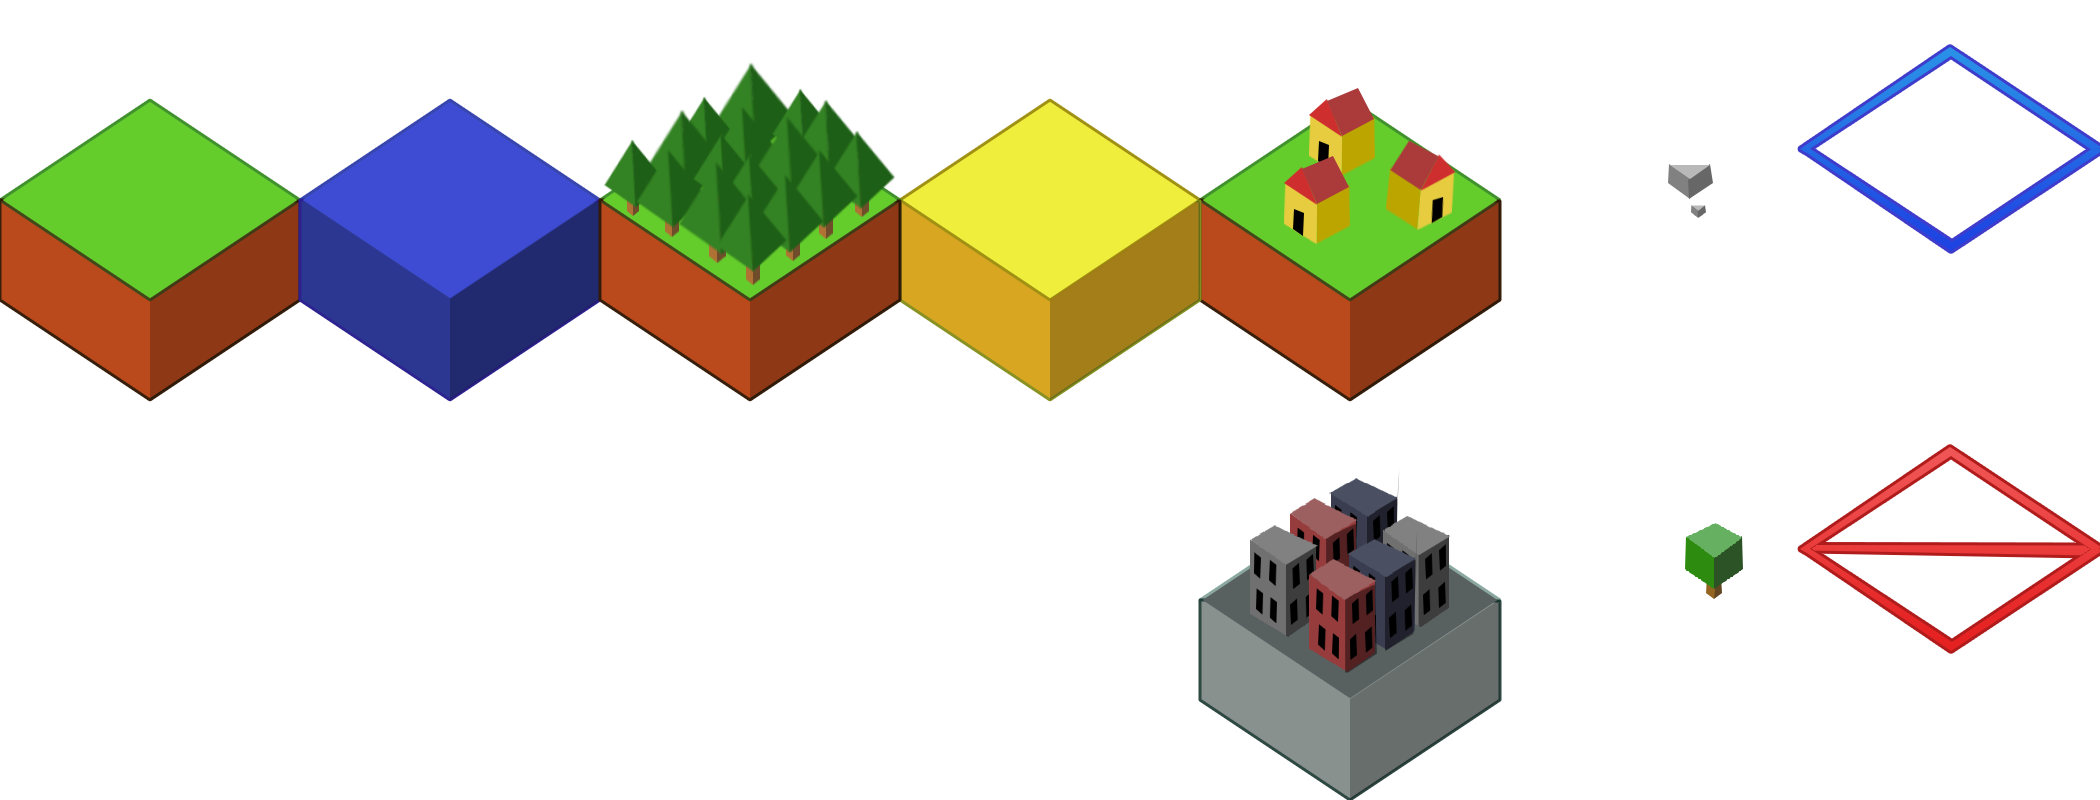
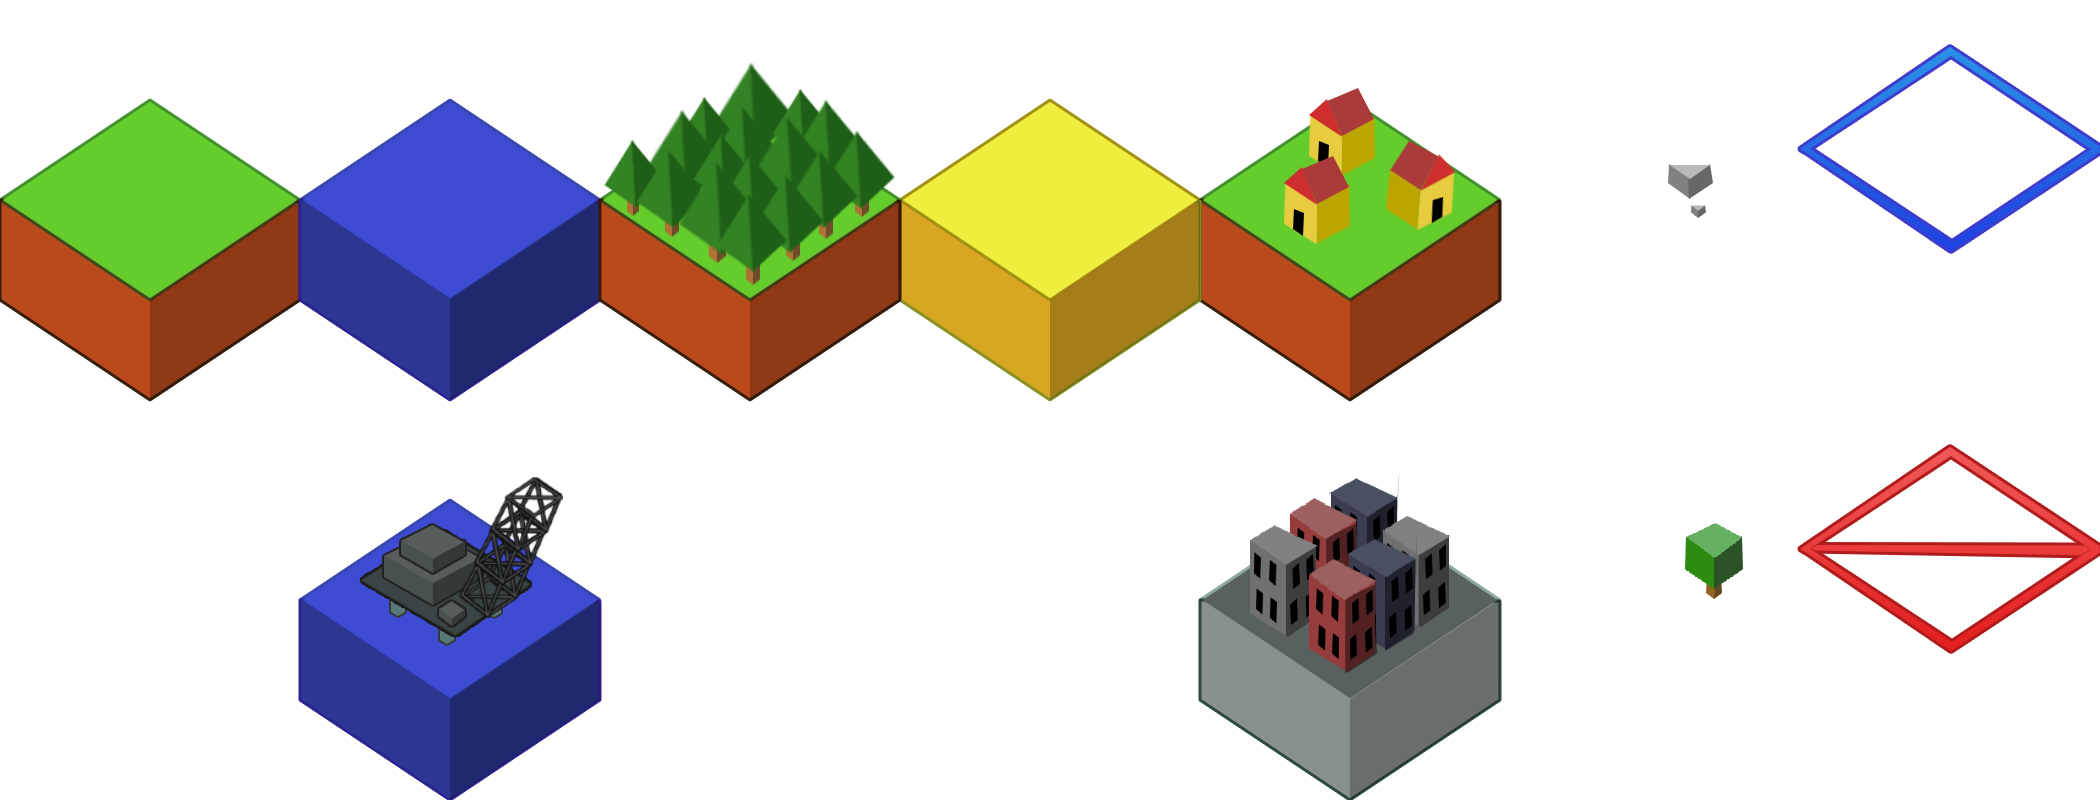
Mad cities more powerful xD

Changed region(s): [[0.1238, 0.5938, 0.3095, 1.0]]

diff --git a/_games/voxel-biome/tmp.js b/_games/voxel-biome/tmp.js
@@ -129,6 +129,12 @@ function Voxel(x, y, width, height, type){
 
     this.id = currentID;
 
+    this.internalTimer = 100;
+
+    this.turnToCityTerritory = false;
+
+    this.cityProperty = false;
+
     if(this.id/mapSideLength !== 0) {
         if(this.id/mapSideLength === 1) {
             gridRoll[Math.ceil(this.id / (mapSideLength) + 1)].push(this.id);
@@ -160,10 +166,22 @@ function Voxel(x, y, width, height, type){
                 ctx.drawImage(voxelsG, 1500, 400, 298, 400, this.x - width / 2, this.y - height / 2, width, height);
             }
 
-            ctx.drawImage(voxelsG, 1800, 0, 298, 400, this.x - width / 2, this.y - height / 2, width, height);
+            if(this.cityProperty === true){
+                if(this.stage === 0) {
+                    ctx.drawImage(voxelsG, 1200, 0, 298, 400, this.x - width / 2, this.y - height / 2, width, height);
+                }else{
+                    ctx.drawImage(voxelsG, 1200, 400, 298, 400, this.x - width / 2, this.y - height / 2, width, height);
+                }
+            }
 
         }else if(this.type === 2) { //SEA
+
             ctx.drawImage(voxelsG, 300, 0, 298, 400, this.x - width / 2, this.y - height / 2, width, height);
+
+            if(this.cityProperty === true){
+                ctx.drawImage(voxelsG, 300, 400, 298, 400, this.x - width / 2, this.y - height / 2, width, height);
+            }
+
         }else if(this.type === 3) { //FOREST
             ctx.drawImage(voxelsG, 600, 0, 298, 400, this.x - width / 2, this.y - height / 2, width, height);
         }else if(this.type === 4) { //DESERT
@@ -173,12 +191,18 @@ function Voxel(x, y, width, height, type){
                 ctx.drawImage(voxelsG, 1500, 0, 298, 400, this.x - width / 2, this.y - height / 2, width, height);
             }
         }else if(this.type === 5) { //TOWN/CITY
+            this.internalTimer = 0;
             if(this.stage === 0) {
                 ctx.drawImage(voxelsG, 1200, 0, 298, 400, this.x - width / 2, this.y - height / 2, width, height);
             }else{
                 ctx.drawImage(voxelsG, 1200, 400, 298, 400, this.x - width / 2, this.y - height / 2, width, height);
             }
         }
+
+        if(this.turnToCityTerritory === true) {
+            ctx.drawImage(voxelsG, 1800, 400, 298, 400, this.x - width / 2, this.y - height / 2, width, height);
+        }
+
         if(DEBUG === true) {
             ctx.font = '20pt Courier New';
             ctx.textAlign = "center";
@@ -196,6 +220,22 @@ function Voxel(x, y, width, height, type){
                 this.y--;
             }
         }
+
+        if(this.turnToCityTerritory === true){
+            if(this.internalTimer > 0) {
+                this.internalTimer--;
+            }else{
+                this.turnToCityTerritory = false;
+            }
+        }
+
+        if(this.internalTimer === 0){
+
+            this.cityProperty = true;
+            this.turnToCityTerritory = false;
+
+        }
+
     }
     this.animateUp = function(up){
         if(up === 0) {
@@ -258,7 +298,7 @@ function game(){
             forests++;
         }else if(voxels[i].type === 4){
             deserts++;
-        }else if(voxels[i].type === 5){
+        }else if(voxels[i].type === 5 || voxels[i].cityProperty === true){
             cities++;
         }
 
@@ -342,55 +382,46 @@ function game(){
 
     if(frameCount % 100 === 0){
 
-        var x = Math.floor(Math.random() * cities);
-        var cityNumber = 0;
-
         for(var f = 0; f < voxels.length; f++){
 
-            if(voxels[f].type === 5) {
-                if(x === cityNumber){
-                    var diceRollCity = Math.random();
+            if(voxels[f].type === 5 || voxels[f].cityProperty === true) {
+                var diceRollCity = Math.random();
 
-                    if (diceRollCity < 0.1) {
-                        if (voxels[f].stage === 0) {
-                            voxels[f].stage = 1;
-                        }
-                    } else if (diceRollCity <= 1) {
+                if (diceRollCity < 0.3) {
+                    if (voxels[f].stage === 0) {
+                        voxels[f].stage = 1;
+                    }
+                }else{
 
-                        var diceRollCity2 = Math.random();
+                    var diceRollCity2 = Math.floor(Math.random() * 4);
 
-                        for (var m = 0; m < gridRoll.length; m++) {
-                            for (var n = 0; n < gridRoll[1].length; n++) {
-                                if (gridRoll[m][n] === voxels[f].id) {
+                    for (var m = 0; m < gridRoll.length; m++) {
+                        for (var n = 0; n < gridRoll[1].length; n++) {
+                            if (gridRoll[m][n] === voxels[f].id) {
 
-                                    if (diceRollCity2 <= 0.25) {
-                                        if (voxels[gridRoll[m - 1][n]] != null) {
-                                            voxels[gridRoll[m - 1][n]].type = 5;
-                                        }
-                                    } else if (diceRollCity2 <= 0.5) {
-                                        if (voxels[gridRoll[m][n - 1]] != null) {
-                                            voxels[gridRoll[m][n - 1]].type = 5;
-                                        }
-                                    } else if (diceRollCity2 <= 0.75) {
-                                        if (voxels[gridRoll[m + 1][n]] != null) {
-                                            voxels[gridRoll[m + 1][n]].type = 5;
-                                        }
-                                    } else if (diceRollCity2 <= 1) {
-                                        if (voxels[gridRoll[m][n + 1]] != null) {
-                                            voxels[gridRoll[m][n + 1]].type = 5;
-                                        }
+                                if (diceRollCity2 === 1) {
+                                    if (voxels[gridRoll[m - 1][n]] != null) {
+                                        voxels[gridRoll[m - 1][n]].turnToCityTerritory = true;
                                     }
-
+                                } else if (diceRollCity2 === 2) {
+                                    if (voxels[gridRoll[m][n - 1]] != null) {
+                                        voxels[gridRoll[m][n - 1]].turnToCityTerritory = true;
+                                    }
+                                } else if (diceRollCity2 === 3) {
+                                    if (voxels[gridRoll[m + 1][n]] != null) {
+                                        voxels[gridRoll[m + 1][n]].turnToCityTerritory = true;
+                                    }
+                                }else{
+                                    if (voxels[gridRoll[m][n + 1]] != null) {
+                                        voxels[gridRoll[m][n + 1]].turnToCityTerritory = true;
+                                    }
                                 }
+
                             }
                         }
-
                     }
 
-                }else{
-                    cityNumber++;
                 }
-
 
             }
 
